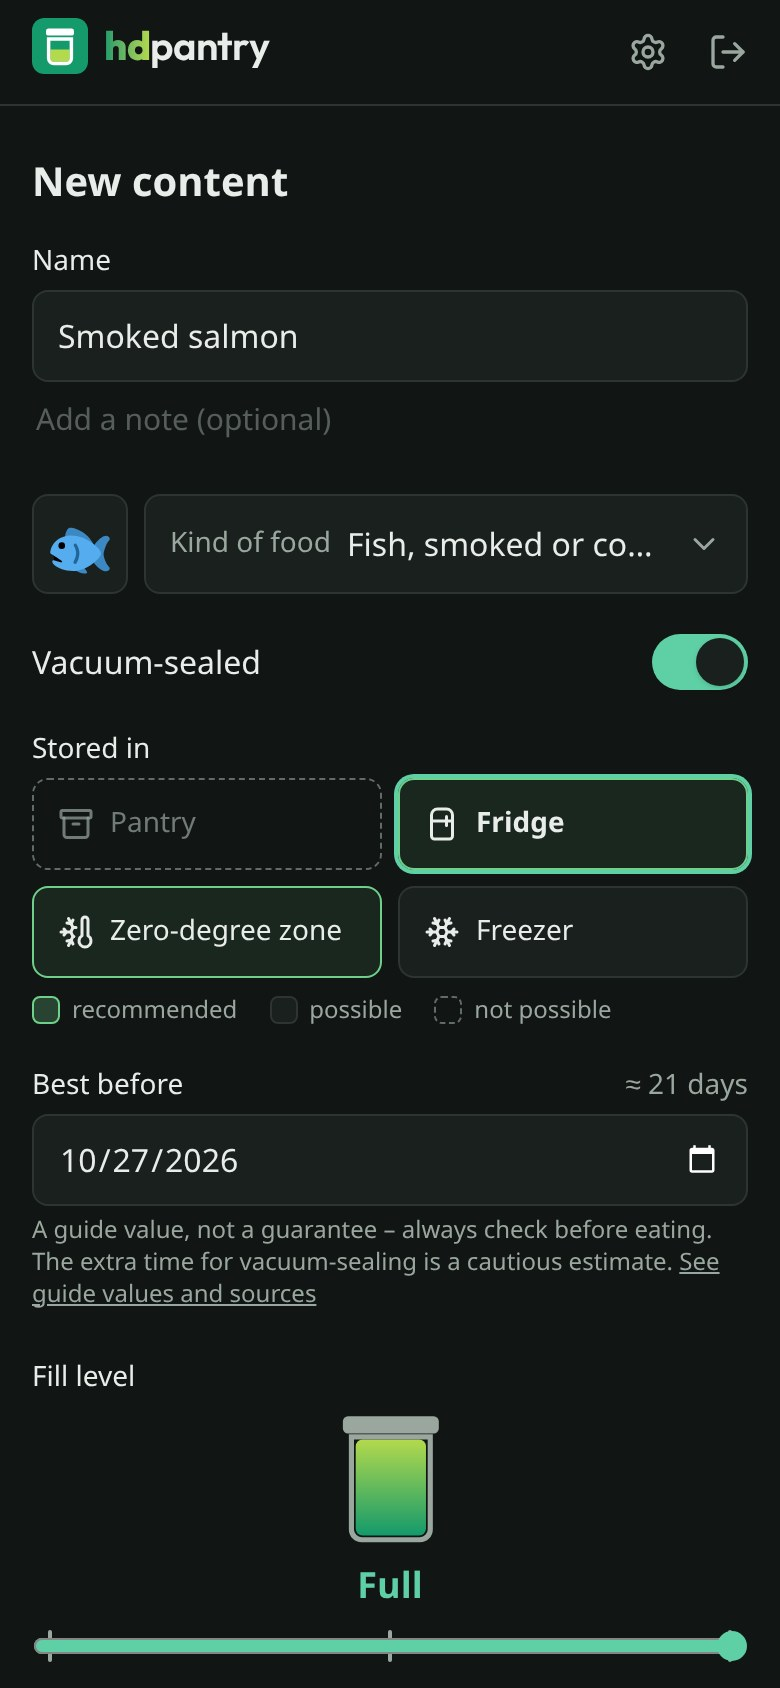
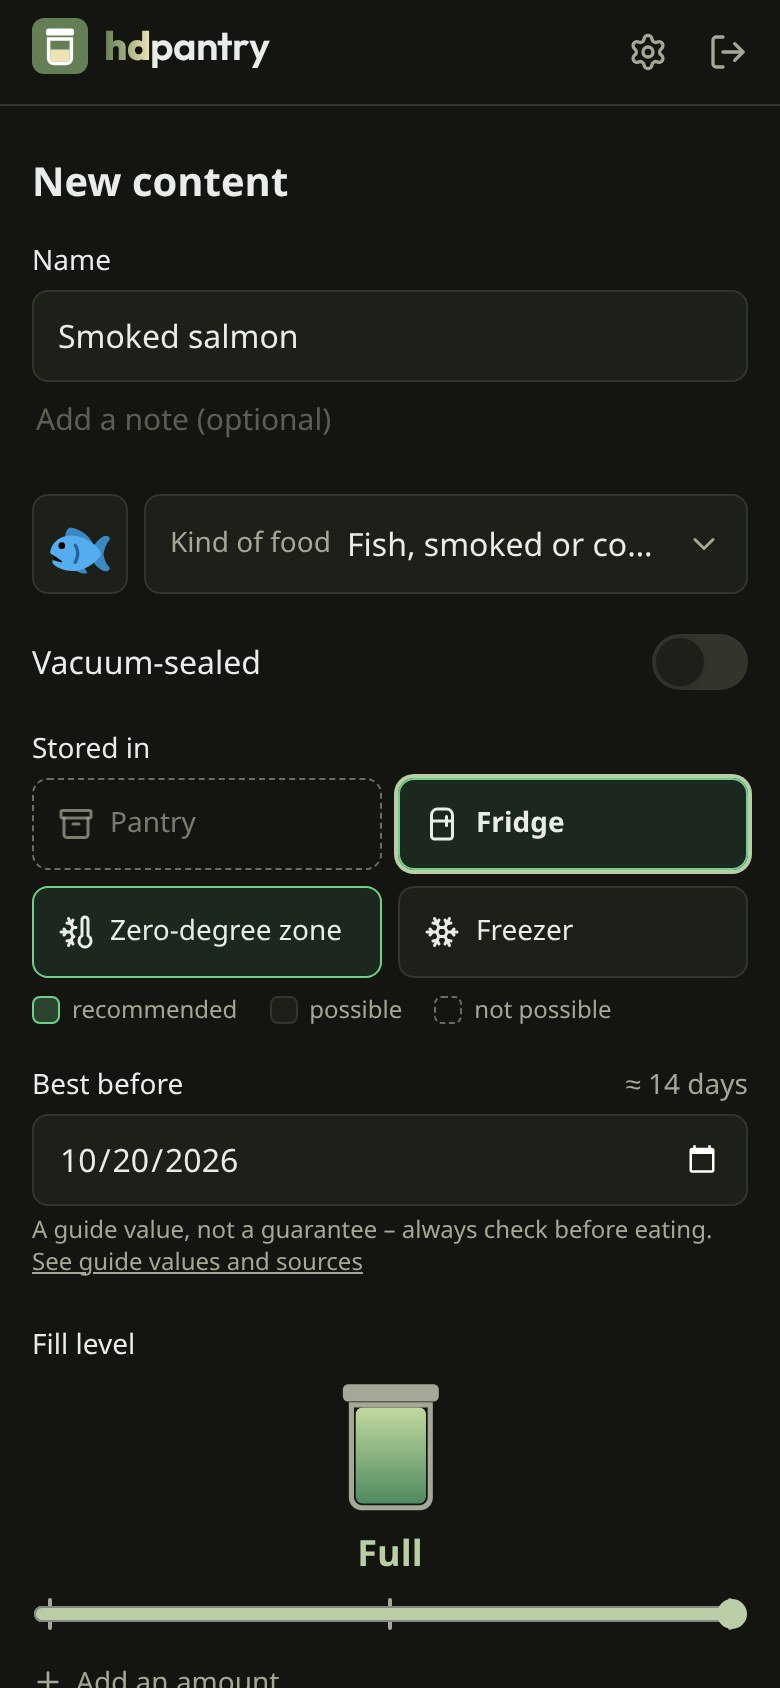
Sage colour scheme
Logo with a sage tile and cream content, sage accent, backgrounds tinted
towards olive. The fill gauge gets a muted green of its own, so not
everything is tone on tone. App icons, notification picture, wordmark
images and README pictures drawn anew.

diff --git a/src/routes/layout.css b/src/routes/layout.css
@@ -7,22 +7,27 @@
    'light', 'dark' or 'system' (follows the device). It also works on any other element – the
    previews in the settings use that. */
 :root {
-	/* Gradient of the "hd" in the wordmark – the same in every scheme */
-	--brand-from: #149a6b;
-	--brand-to: #b3d94d;
+	/* Start of the gradient of the "hd" in the wordmark: the sage green of the logo. Where it
+	   ends depends on the scheme (--brand-to below): cream would vanish on a light background. */
+	--brand-from: #647f55;
+	/* What is in a container (FillGauge): a muted green of its own, the same in every scheme –
+	   deliberately not the colours of logo and buttons, so not everything is tone on tone */
+	--fill-from: #4f8a5f;
+	--fill-to: #c2d9a0;
 }
 
 :root,
 [data-theme='light'],
 [data-theme='system'] {
 	color-scheme: light;
-	--bg: #f6f7f4;
+	--bg: #f6f6f0;
 	--surface: #ffffff;
-	--line: #dfe3dc;
+	--line: #e0e2d4;
 	--text: #1b211d;
-	--muted: #5d6b62;
-	--accent: #1f7a5c;
+	--muted: #656a5a;
+	--accent: #4f6b45;
 	--on-accent: #ffffff;
+	--brand-to: #a39b55;
 	--danger: #b3261e;
 	--warn: #8a5a00;
 	--good: #2c8a4b;
@@ -32,13 +37,14 @@
 
 [data-theme='dark'] {
 	color-scheme: dark;
-	--bg: #111513;
-	--surface: #1a201d;
-	--line: #2c3530;
+	--bg: #141511;
+	--surface: #1d1f19;
+	--line: #32352b;
 	--text: #e8ede9;
-	--muted: #9aa79f;
-	--accent: #5fd0a5;
-	--on-accent: #0c1a14;
+	--muted: #a4a897;
+	--accent: #b9cda7;
+	--on-accent: #131b0f;
+	--brand-to: #ece3b7;
 	--danger: #ff8a80;
 	--warn: #f2c14e;
 	--good: #6fd08c;
@@ -49,13 +55,14 @@
 @media (prefers-color-scheme: dark) {
 	[data-theme='system'] {
 		color-scheme: dark;
-		--bg: #111513;
-		--surface: #1a201d;
-		--line: #2c3530;
+		--bg: #141511;
+		--surface: #1d1f19;
+		--line: #32352b;
 		--text: #e8ede9;
-		--muted: #9aa79f;
-		--accent: #5fd0a5;
-		--on-accent: #0c1a14;
+		--muted: #a4a897;
+		--accent: #b9cda7;
+		--on-accent: #131b0f;
+		--brand-to: #ece3b7;
 		--danger: #ff8a80;
 		--warn: #f2c14e;
 		--good: #6fd08c;

diff --git a/src/lib/components/FillGauge.svelte b/src/lib/components/FillGauge.svelte
@@ -17,8 +17,8 @@
 	const JAR: Record<FillLevel, number> = { low: 12, medium: 32, full: 56 };
 	let height = $derived((jar ? JAR : BAG)[level]);
 
-	// The content is drawn in the two colours of the wordmark, green at the bottom and light
-	// green at the top of the container: the fuller it is, the lighter its upper edge. Every
+	// The content is drawn in a muted green of its own (--fill-from/--fill-to in layout.css),
+	// darker at the bottom and lighter at the top: the fuller it is, the lighter its upper edge. Every
 	// drawing needs a colour run of its own, hence the id.
 	const id = $props.id();
 </script>
@@ -30,8 +30,8 @@
 		<svg viewBox="0 0 64 84" width={size * (64 / 84)} height={size} aria-hidden="true">
 			<defs>
 				<linearGradient {id} gradientUnits="userSpaceOnUse" x1="0" y1="75.5" x2="0" y2="19.5">
-					<stop offset="0" class="[stop-color:var(--brand-from)]" />
-					<stop offset="1" class="[stop-color:var(--brand-to)]" />
+					<stop offset="0" class="[stop-color:var(--fill-from)]" />
+					<stop offset="1" class="[stop-color:var(--fill-to)]" />
 				</linearGradient>
 			</defs>
 			<rect
@@ -56,8 +56,8 @@
 		<svg viewBox="0 0 64 72" width={size * (64 / 72)} height={size} aria-hidden="true">
 			<defs>
 				<linearGradient {id} gradientUnits="userSpaceOnUse" x1="0" y1="65" x2="0" y2="21">
-					<stop offset="0" class="[stop-color:var(--brand-from)]" />
-					<stop offset="1" class="[stop-color:var(--brand-to)]" />
+					<stop offset="0" class="[stop-color:var(--fill-from)]" />
+					<stop offset="1" class="[stop-color:var(--fill-to)]" />
 				</linearGradient>
 			</defs>
 			<rect

diff --git a/src/lib/themes.ts b/src/lib/themes.ts
@@ -4,9 +4,9 @@
 // bar: colour of the browser's own bar on phones – [on light devices, on dark devices]
 export const THEMES = {
 	// Follows the device
-	system: { bar: ['#f6f7f4', '#111513'] },
-	dark: { bar: ['#111513', '#111513'] },
-	light: { bar: ['#f6f7f4', '#f6f7f4'] }
+	system: { bar: ['#f6f6f0', '#141511'] },
+	dark: { bar: ['#141511', '#141511'] },
+	light: { bar: ['#f6f6f0', '#f6f6f0'] }
 } as const;
 
 export type Theme = keyof typeof THEMES;

diff --git a/src/routes/manifest.webmanifest/+server.ts b/src/routes/manifest.webmanifest/+server.ts
@@ -3,7 +3,7 @@ import type { RequestHandler } from './$types';
 
 // Colour of the logo: shown while the installed app starts, before the page and its own
 // colour scheme are there. Fits light and dark devices alike.
-const BRAND = '#149a6b';
+const BRAND = '#647f55';
 
 // Tells the browser how to install hdpantry as an app. Reachable without being logged in
 // (see PUBLIC_PATHS in hooks.server.ts): the browser fetches it without the login cookie.

diff --git a/src/error.html b/src/error.html
@@ -11,13 +11,13 @@
 				min-height: 100vh;
 				display: grid;
 				place-items: center;
-				background: #111513;
+				background: #141511;
 				color: #e8ede9;
 				font-family: system-ui, sans-serif;
 				text-align: center;
 			}
 			p {
-				color: #9aa79f;
+				color: #a4a897;
 			}
 			a {
 				color: #e8ede9;

diff --git a/CLAUDE.md b/CLAUDE.md
@@ -61,7 +61,7 @@ Sparsam bleiben: kleines Image, wenige Abhängigkeiten, schnelle Seiten auf schw
 - Felder, Grenzen und die Prüfung des Formulars stehen in `src/lib/items.ts` (`readItemForm()`), für Browser und Server gemeinsam. Lagerorte: `pantry`, `fridge`, `zero`, `freezer`; Füllstand: `low`, `medium`, `full`. Menge optional als Zahl + Einheit (`g`, `kg`, `ml`, `l`, `pcs`, `servings`). **Die Menge folgt dem Füllstand-Regler in Dritteln** (voll = 3/3, mittel = 2/3, niedrig = 1/3; `scaleAmount()`), gerechnet ab der zuletzt eingetippten Menge und der Stufe, bei der sie eingetippt wurde.
 - „Ersetzen“ (`/containers/[id]/add?replace=1`): Der alte Inhalt wird erst beim Speichern des neuen als gegessen vermerkt, beides in einer Transaktion (`replaceItem()`); Abbrechen ändert nichts. Deshalb keine eigene Rückfrage.
 - Ein Formular für Neu und Bearbeiten (`ItemForm.svelte`). Neu (`/containers/[id]/add`): erst nur der Name (Fokus sofort, Enter = weiter), dann der Rest – dort ist nichts fokussiert, damit die Handy-Tastatur zugeht. Im Namensschritt steht direkt unter dem Feld **eine** Zeile mit zuletzt erfassten Namen aus dem ganzen Vorrat (`recentNames()`; beim Tippen gefiltert, `matchNames()`; seitlich wischbar, ohne Scrollleiste; ein Tipp übernimmt), unter „Weiter“ der Verlauf dieses Behälters – die drei neuesten offen, ältere hinter „… weitere anzeigen“. **Der Verlauf des Behälters darf nie ersetzt, verdrängt oder versteckt werden:** Man will sehen, was vorher darin war (z. B. um Tierisches und Veganes nicht zu mischen). Bearbeiten (`/containers/[id]/edit`) über das Stift-Symbol neben dem Namen – Bearbeiten immer per Stift, nicht über Extra-Felder auf der Detailseite. **Nach jedem Speichern (neu, ersetzen, bearbeiten) und nach „Gegessen“ geht es zurück zum Vorrat;** nur „Abbrechen“ beim Bearbeiten führt zur Detailseite zurück.
-- Füllstand wird als Zeichnung gezeigt (`FillGauge.svelte`), im Formular über dem Regler, auf der Detailseite und in der Vorratsliste (auf Karten als kleines Abzeichen am Lebensmittel-Symbol, damit Lagerort und Menge Platz haben): gescannte Behälter als Vakuumbeutel (eckig, Verschlussleiste, rundes Ventil – eigene Zeichnung), manuell erfasste als Glas, damit man sie unterscheiden kann. Der Inhalt ist im Verlauf des Schriftzugs gezeichnet, unten Grün, oben Hellgrün – je voller, desto heller die Oberkante. Der Regler hat drei Markierungen statt Beschriftung; die gewählte Stufe steht unter der Zeichnung. Er bleibt ein Regler (User-Entscheidung, keine drei Felder).
+- Füllstand wird als Zeichnung gezeigt (`FillGauge.svelte`), im Formular über dem Regler, auf der Detailseite und in der Vorratsliste (auf Karten als kleines Abzeichen am Lebensmittel-Symbol, damit Lagerort und Menge Platz haben): gescannte Behälter als Vakuumbeutel (eckig, Verschlussleiste, rundes Ventil – eigene Zeichnung), manuell erfasste als Glas, damit man sie unterscheiden kann. Der Inhalt ist in einem eigenen gedeckten Grün gezeichnet (`--fill-from` → `--fill-to`, unten dunkler – je voller, desto heller die Oberkante), bewusst **nicht** in den Farben von Logo und Knöpfen: Alles Ton in Ton gefiel nicht, das kräftige Grün von früher war zu bunt. Der Regler hat drei Markierungen statt Beschriftung; die gewählte Stufe steht unter der Zeichnung. Er bleibt ein Regler (User-Entscheidung, keine drei Felder).
 - „Vakuumiert“ ist beim Befüllen vorbelegt (`vacuumDefault()`): erkannter Vakuumbehälter (Regel mit `vacuum`) **immer an**, auch nach einem Inhalt ohne Vakuum; jeder andere Behälter wie beim letzten Mal, nie befüllt = aus. Kein Foto-Upload. Optionale Notiz je Inhalt: im Formular eine unauffällige Zeile direkt unter dem Namen, ohne Rahmen und Überschrift. Optionales bleibt dezent: Die Menge erscheint erst über „Menge hinzufügen“.
 - Knöpfe nur zeigen, wenn die Aktion gerade möglich ist; sonst gleich den Grund nennen (Beispiel: Zusammenführen bei zwei gefüllten Behältern).
 - Der große Scan-Knopf steht nur auf der Startseite (Vorrat): am Handy als Leiste am unteren Rand, hinter der die Liste ausläuft (ein schwebender Knopf verdeckte die Datumsspalte), am PC in der Ecke. Der leere Vorrat hat ihn mittig unter dem Text, darunter „Ohne Kamera erfassen“ (`/scan?manual`). Auf der Detailseite steht oben ein Kasten mit „in 2 Tagen“ in der Farbe der Liste; „Gegessen“ und „Ersetzen“ sitzen am Handy am unteren Rand.
@@ -113,8 +113,8 @@ Sparsam bleiben: kleines Image, wenige Abhängigkeiten, schnelle Seiten auf schw
 
 ## Dokumentation
 
-- Logo (`src/lib/assets/favicon.svg`): die beiden Farben des Schriftzugs wie bei hdtracker – grüne Fläche `#149a6b`, weißes Glas, Inhalt hellgrün `#b3d94d` (bleibt innerhalb des Glases). Dieselbe Fläche ist die Startfarbe der installierten App (`BRAND` im Manifest). Nach Änderungen am Logo neu erzeugen: App-Symbole (`scripts/app-icons.mjs`), Schriftzug-Bilder und alle Screenshots.
-- Schriftzug für die README: `docs/brand/wordmark-light.png` / `-dark.png` (Logo + „hdpantry“ in der Schrift Outfit, „hd“ extrafett mit Verlauf von Grün `#149a6b` nach Hellgrün `#b3d94d`, Rest halbfett; als Bild erzeugt, weil GitHub keine eigenen Schriften lädt). In der App derselbe Schriftzug als Text (`Brand.svelte`, Schrift lokal gebündelt über `@fontsource/outfit`, Klasse `font-brand`).
+- **Farbschema „Salbei“** (vom User aus mehreren Vorschau-Runden gewählt, nicht ohne Rückfrage ändern): Logo (`src/lib/assets/favicon.svg`) mit salbeigrüner Fläche `#647f55`, weißem Glas und cremefarbenem Inhalt `#ece3b7` (bleibt innerhalb des Glases); Akzent Salbei, Hintergründe leicht ins Oliv getönt (`layout.css`). Rot, Gelb, Grün und Orange sind Bedeutungsfarben – nie als Akzent verwenden. Dieselbe Fläche ist die Startfarbe der installierten App (`BRAND` im Manifest). Nach Änderungen am Logo neu erzeugen: App-Symbole (`scripts/app-icons.mjs`), Schriftzug-Bilder und alle Screenshots.
+- Schriftzug für die README: `docs/brand/wordmark-light.png` / `-dark.png` (Logo + „hdpantry“ in der Schrift Outfit, „hd“ extrafett mit Verlauf von Salbei `#647f55` nach Creme `#ece3b7` – auf hellem Grund endet er dunkler, `#a39b55` bzw. `--brand-to`, weil Creme dort verschwindet –, Rest halbfett; als Bild erzeugt, weil GitHub keine eigenen Schriften lädt). In der App derselbe Schriftzug als Text (`Brand.svelte`, Schrift lokal gebündelt über `@fontsource/outfit`, Klasse `font-brand`).
 - README (Englisch) ist das Schaufenster: Name, Kurzbeschreibung, Hinweis „Early development“ (bis zum ersten Release), Links ins Wiki, Features – ehrlich getrennt in „funktioniert heute“ und „in Arbeit“, nur was hdpantry auszeichnet, keine Selbstverständlichkeiten (Sprachen, als App installierbar, Login-Schutz und Konto-Einstellungen bekommen keinen eigenen Punkt; so auch bei hdtracker) –, Quick start, **Built with AI** und License. oben das Titelbild `devices.jpg` (Bildschirm + zwei Handys, eigene Zeichnung der Geräte), Screenshot-Tabelle (`docs/screenshots/`, Handy 390×844 in doppelter Auflösung, englische Oberfläche, dunkles Farbschema, **nur erfundene Beispieldaten**, drei pro Zeile) – nach sichtbaren Änderungen neu aufnehmen. Feature-Liste aktuell halten.
 - Anleitungen für Nutzer gehören ins GitHub-Wiki (eigenes Git-Repo, Englisch), nicht in die README. **Wiki-Texte gegliedert schreiben, keine Textwände** (Listen, nummerierte Schritte, Tabellen, Hinweis-Blöcke; ein Absatz über etwa 55 Wörter ist zu lang). **Benachrichtigungsdienste erklären wir nicht, wir verlinken sie** (User-Entscheidung): Im Wiki steht je Ziel nur, was die App sendet und speichert (aus dem eigenen Code), ein Satz, wer den Inhalt lesen kann, und der Link zur Datenschutzseite des Dienstes – keine Nacherzählung von Speicherfristen, Verschlüsselung oder Weitergabe dort. Wo doch eine Angabe des Dienstes nötig ist (ntfy: offenes Thema, Google), wörtlich zitieren und verlinken, nicht zuspitzen. Die ausführliche Fassung steht nur auf „Privacy and security“, „Notifications“ fasst zusammen und verlinkt; was selbst ausprobiert wurde, steht bei der Anleitung. Ändert sich etwas an Installation, `.env`, Update oder Rettungswegen: Wiki-Seite mit anpassen. Die Seite „Privacy and security“ hält fest, dass es keine Verbindung nach außen gibt und wie Daten gespeichert sind.
 

diff --git a/README.md b/README.md
@@ -8,7 +8,7 @@
 
 <p align="center">
   <a href="https://github.com/dvnkln/hdpantry/actions/workflows/check.yml"><img src="https://img.shields.io/github/actions/workflow/status/dvnkln/hdpantry/check.yml?label=checks&style=for-the-badge" alt="Checks" /></a>
-  <a href="LICENSE"><img src="https://img.shields.io/badge/license-AGPL--3.0-149a6b?style=for-the-badge" alt="License: AGPL-3.0" /></a>
+  <a href="LICENSE"><img src="https://img.shields.io/badge/license-AGPL--3.0-647f55?style=for-the-badge" alt="License: AGPL-3.0" /></a>
 </p>
 
 <p align="center">
